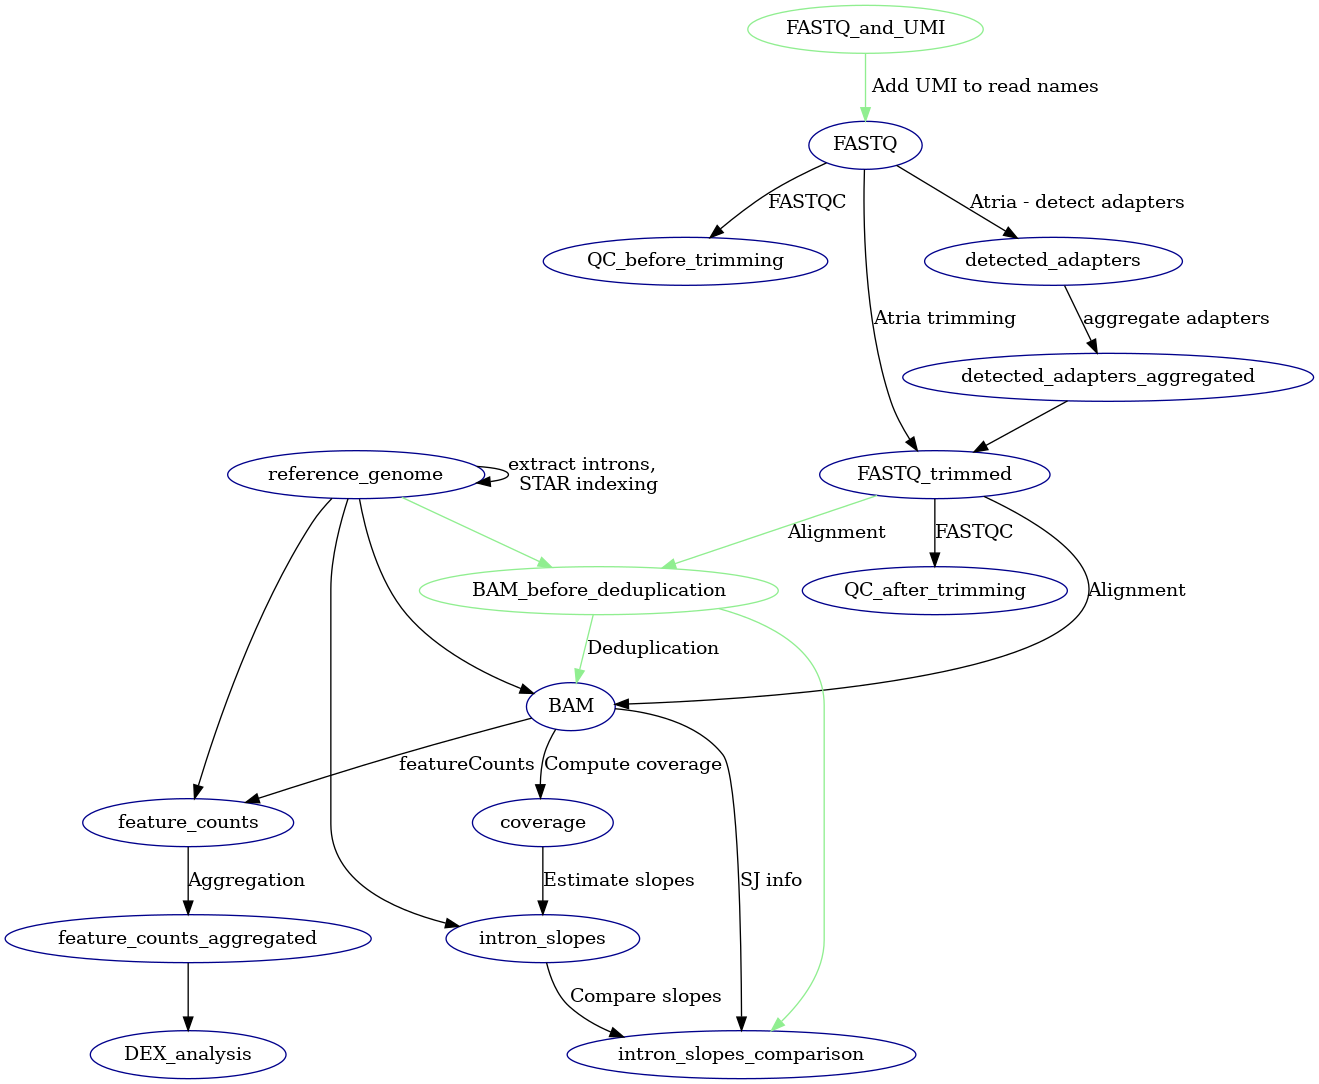
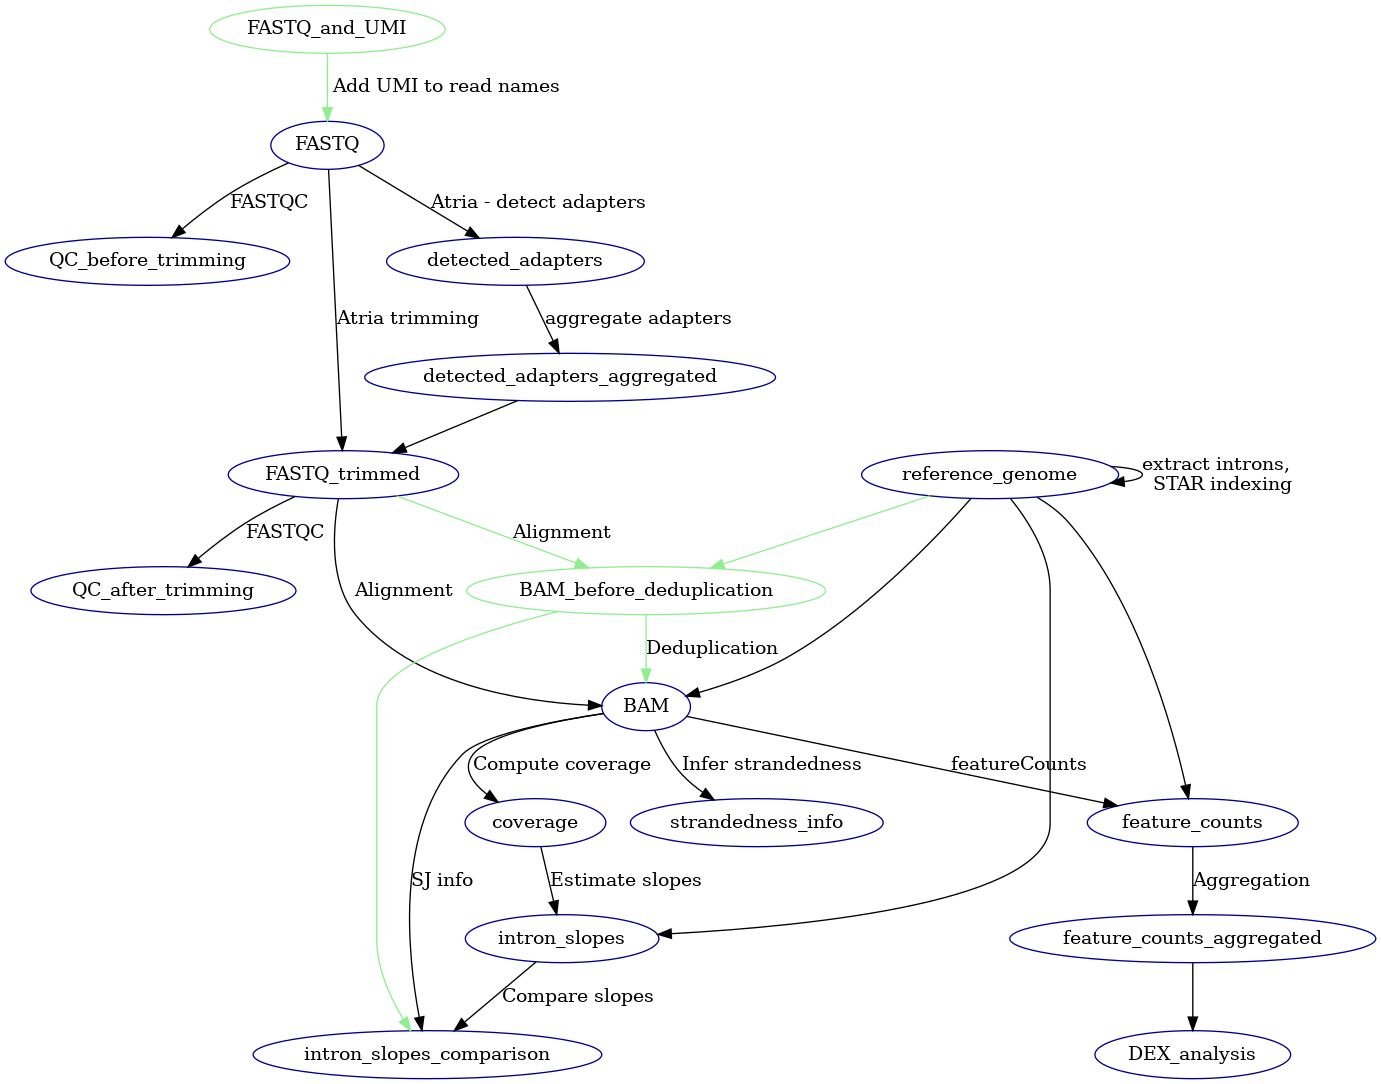
Add code to infer strandedness from STAR output.

diff --git a/scripts/infer_strandedness.py b/scripts/infer_strandedness.py
@@ -1,0 +1,49 @@
+import argparse
+import json
+from pathlib import Path
+
+import pandas as pd
+
+
+def infer_strandedness(input_folder: Path, output_folder: Path) -> None:
+    """
+    Infer strandedness of samples from feature counts files produced by STAR and
+    writes output to JSON.
+    :param input_folder: Input folder, containing subfolder for each sample. Each subfolder
+    is expected to be the result of STAR alignment and contains the file 'ReadsPerGene.out.tab'.
+    :param output_folder: Output folder to which output JSON will be written
+    :return: None.
+    """
+    num_stranded_1 = 0
+    num_stranded_2 = 0
+    for subfolder in input_folder.iterdir():
+        gene_counts = pd.read_csv(subfolder / 'ReadsPerGene.out.tab', sep='\t',
+                                  names=['feature', 'unstranded', 'stranded', 'reversed'])
+        gene_counts = gene_counts.set_index('feature')
+        if gene_counts.loc['N_unmapped']['stranded'] < gene_counts.loc['N_unmapped']['reversed']:
+            num_stranded_1 += 1
+        else:
+            num_stranded_2 += 1
+
+    strandendess_type = '0'
+    if num_stranded_1 == 0:
+        strandendess_type = '2'
+    elif num_stranded_2 == 0:
+        strandendess_type = '1'
+    output_json = {'strandendess_type': strandendess_type,
+                   'num_stranded_1': num_stranded_1,
+                   'num_stranded_2': num_stranded_2}
+
+    with open(output_folder / 'strandedness_info.json', 'w') as output_file:
+        json.dump(output_json, output_file)
+
+
+if __name__ == "__main__":
+    parser = argparse.ArgumentParser()
+    parser.add_argument('--input_folder',
+                        help='Folder containing subfolders with output of STAR alignment.')
+    parser.add_argument('--output_folder',
+                        help='Folder to which the result will be saved.')
+    args = parser.parse_args()
+    infer_strandedness(input_folder=Path(args.input_folder),
+                       output_folder=Path(args.output_folder))

diff --git a/generate_dag.py b/generate_dag.py
@@ -62,6 +62,9 @@ if __name__ == "__main__":
     graph.edge('BAM', 'intron_slopes_comparison', label='SJ info')
     graph.edge('BAM_before_deduplication', 'intron_slopes_comparison', color=umi_color)
 
+    graph.node('strandedness_info', color=default_color)
+    graph.edge('BAM', 'strandedness_info', label='Infer strandedness')
+
     graph.view()
 
     (graph_for_render,) = pydot.graph_from_dot_file('dag.gv')
